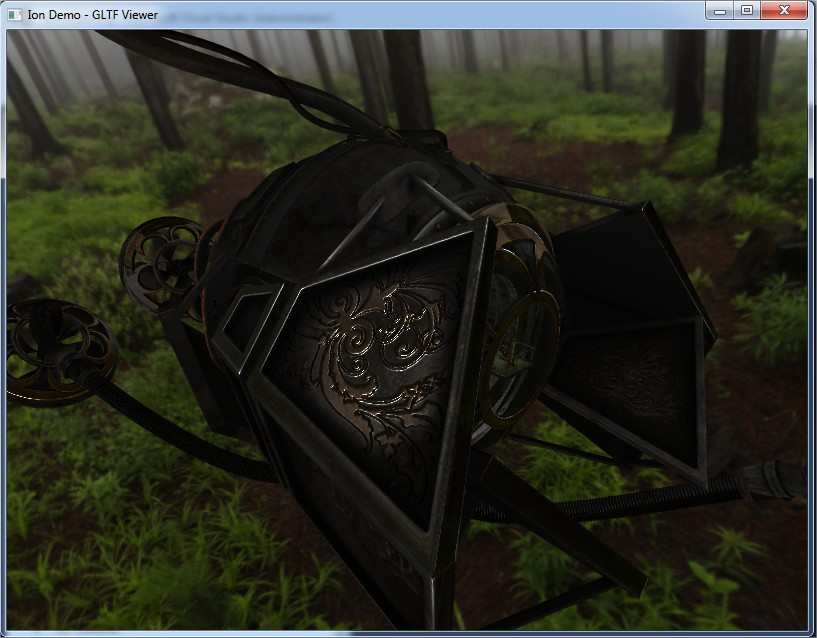
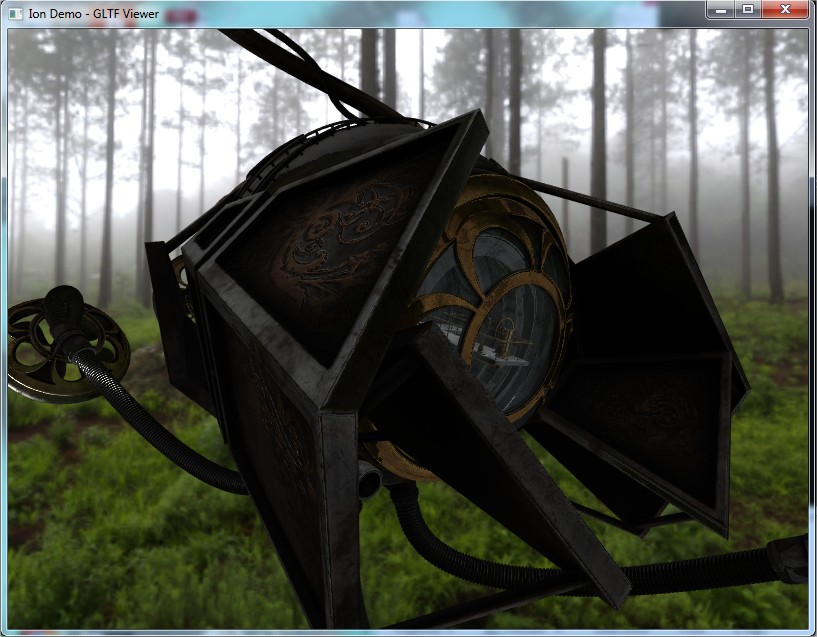
Fix keyboard input. Update some keys for the demo. Updated readme and screenshots.

diff --git a/Demo/Objects.cpp b/Demo/Objects.cpp
@@ -98,7 +98,7 @@ void RotatingEntity::OnKeyboardInput(const ion::KeyboardState& _keyboardState, i
                 m_rotating = !m_rotating;
             }
 
-            if (_keyboardState.m_key == ion::EKeyboardKey_G || _keyboardState.m_key == ion::EKeyboardKey_H)
+            if (_keyboardState.m_key == ion::EKeyboardKey_J || _keyboardState.m_key == ion::EKeyboardKey_K)
             {
                 m_incresingWheelSpeed = 1.0f;
             }
@@ -118,11 +118,11 @@ void RotatingEntity::OnKeyboardInput(const ion::KeyboardState& _keyboardState, i
 
         if (_keyboardState.m_state == ion::EKeyboardState_Down)
         {
-            if (_keyboardState.m_key == ion::EKeyboardKey_G)
+            if (_keyboardState.m_key == ion::EKeyboardKey_J)
             {
                 m_incresingWheelSpeed = 10.0f;
             }
-            if (_keyboardState.m_key == ion::EKeyboardKey_H)
+            if (_keyboardState.m_key == ion::EKeyboardKey_K)
             {
                 m_incresingWheelSpeed = 100.0f;
             }
@@ -284,7 +284,7 @@ void MainCamera::OnKeyboardInput(const ion::KeyboardState& _keyboardState, ionFl
             GetTransform().SetPosition(pos);
         }
 
-        if (_keyboardState.m_key == ion::EKeyboardKey_Q)
+        if (_keyboardState.m_key == ion::EKeyboardKey_Prior)
         {
             switch (m_pbrDebug)
             {
@@ -304,7 +304,7 @@ void MainCamera::OnKeyboardInput(const ion::KeyboardState& _keyboardState, ionFl
                 break;
             }
         }
-        else if (_keyboardState.m_key == ion::EKeyboardKey_Z)
+        else if (_keyboardState.m_key == ion::EKeyboardKey_Next)
         {
             switch (m_pbrDebug)
             {
@@ -346,17 +346,17 @@ void MainCamera::OnKeyboardInput(const ion::KeyboardState& _keyboardState, ionFl
                 std::cout << "Control applied to the object" << std::endl;
             }
         }
-        else if (_keyboardState.m_key == ion::EKeyboardKey_N1)
+        else if (_keyboardState.m_key == ion::EKeyboardKey_E)
         {
             m_pbrDebug = EPBRDebugType_Exposure;
             std::cout << "Active PBR Debug: Esposure - Current level is " << ionRenderManager().m_exposure << std::endl;
         }
-        else if (_keyboardState.m_key == ion::EKeyboardKey_N2)
+        else if (_keyboardState.m_key == ion::EKeyboardKey_G)
         {
             m_pbrDebug = EPBRDebugType_Gamma;
             std::cout << "Active PBR Debug: Gamma - Current level is " << ionRenderManager().m_gamma << std::endl;
         }
-        else if (_keyboardState.m_key == ion::EKeyboardKey_N3)
+        else if (_keyboardState.m_key == ion::EKeyboardKey_P)
         {
             m_pbrDebug = EPBRDebugType_PrefilteredCubeMipLevels;
             std::cout << "Active PBR Debug: Prefiltered Cube Mip Levels - Current level is " << ionRenderManager().m_prefilteredCubeMipLevels << std::endl;

diff --git a/Ion/App/Window.cpp b/Ion/App/Window.cpp
@@ -273,11 +273,55 @@ ionBool Window::Loop()
             switch (message.message)
             {
             case ION_KEY_DOWN:
-                KeyDown(MapVirtualKey(LOWORD(message.wParam), MAPVK_VK_TO_CHAR));
-                break;
+            {
+                // https://docs.microsoft.com/en-gb/windows/desktop/inputdev/wm-char
+                LPARAM lParam = message.lParam;
+                ionU32 scanCode = (lParam >> 16) & 0x000000ff; // extract bit 16-23
+                /*
+                ionU32 ext = (lParam >> 24) & 0x00000001; // extract bit 24
+                if (ext == 1)
+                {
+                    scanCode += 128;
+                }
+                */
+                ionU32 virtualKey = MapVirtualKey(scanCode, MAPVK_VSC_TO_VK);
+
+                ionU32 ext = (lParam >> 24) & 0x00000001; // extract bit 24
+                if (ext == 1)
+                {
+                    KeyDown(virtualKey);
+                }
+                else
+                {
+                    KeyDown(MapVirtualKey(virtualKey, MAPVK_VK_TO_CHAR));
+                }
+            }
+            break;
             case ION_KEY_UP:
-                KeyUp(MapVirtualKey(LOWORD(message.wParam), MAPVK_VK_TO_CHAR));
-                break;
+            {
+                // https://docs.microsoft.com/en-gb/windows/desktop/inputdev/wm-char
+                LPARAM lParam = message.lParam;
+                ionU32 scanCode = (lParam >> 16) & 0x000000ff; // extract bit 16-23
+                /*
+                ionU32 ext = (lParam >> 24) & 0x00000001; // extract bit 24
+                if (ext == 1)
+                {
+                    scanCode += 128;
+                }
+                */
+                ionU32 virtualKey = MapVirtualKey(scanCode, MAPVK_VSC_TO_VK);
+
+                ionU32 ext = (lParam >> 24) & 0x00000001; // extract bit 24
+                if (ext == 1)
+                {
+                    KeyUp(virtualKey);
+                }
+                else
+                {
+                    KeyUp(MapVirtualKey(virtualKey, MAPVK_VK_TO_CHAR));
+                }
+            }   
+            break;
             case ION_WND_RESIZE:
                 resize = true;
                 break;

diff --git a/README.md b/README.md
@@ -14,7 +14,8 @@ I'm not planning to do a x86 version
 
 This is a screenshot about a first test on PBR render.
 
-In the top left you can see an "arrow" that indicate (more or less) the orientation of the light, that could be useful when you go in the rotating light directional light mode pressing **L** key.
+If there is any lights accordingly with the materials loaded, the DEMO let you enable the direction lights debug in order to debug the lights pressing the key **L** (see below the control section)
+Actually is a simple arrow in the top left that indicate (more or less) the orientation of the light, that could be useful when you go in the rotating light directional light mode pressing **L** key.
 I did in this way to show you the capabilities to have another camera which render on top of another with another canvas, in fact is not a object rendered at the location but it is another render camera.
 
 Using the DamagedHelmet supplied with this demo (for the license raed the end of this file)
@@ -68,7 +69,7 @@ Otherwise the action is on the object
 * Hold **right mouse button** in order to pan right or left and up or down the object
 * Use the **mouse wheel** to go toward or far away the object
 * Press **R** to auto rotate the model
-* Hold key **G** increase x 10 the wheel speed of the mouse and **H** to increase x 100
+* Hold key **J** increase x 10 the wheel speed of the mouse and **K** to increase x 100
 * Press **U** will decrease the scale by 10, press **I** will increase the scale by 10
 
 Pressing the key **L**, you can change the control from the model to the light
@@ -76,8 +77,8 @@ In this case, toggling the **L** key you will have:
 * Move the mouse without press any button in order to rotate the light
 
 To Debug PBR
-* Press **1**, **2** or **3** to change the active value between esposure, gamma or prefiltered cube mip levels
-* Press **Q** or **Z** to increment or decrement the selected values
+* Press **E**, **G** or **P** to change the active value between esposure, gamma or prefiltered cube mip levels
+* Press **Page Up** or **Page Down** to increment or decrement the selected values
 
 
 ## Important
